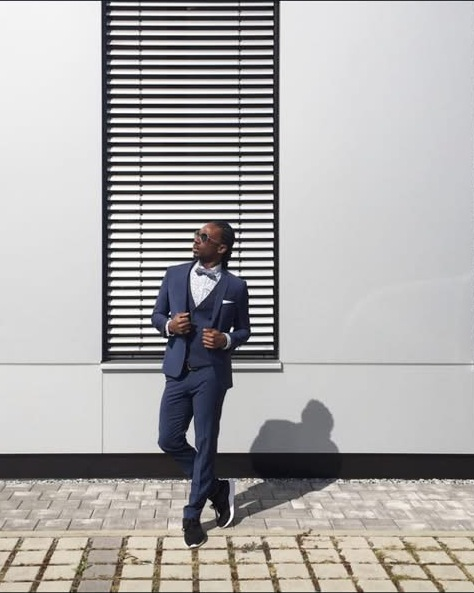
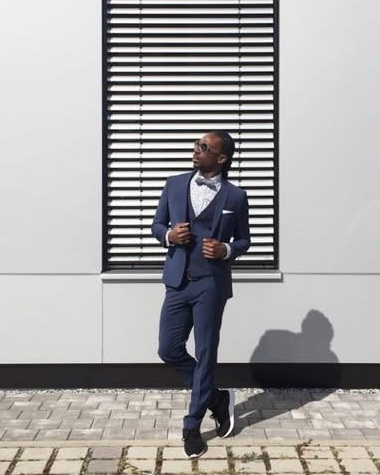
Centre the window, name the win, and carry the price explainers home
The Malta photo is recropped so the window frame is centred: it sat 47px
left of centre, measured off the blinds rather than guessed. The new crop
is 380x475, exactly the 4:5 the card renders, so object-fit crops nothing
further — and it keeps the whole window, the shoes and the shadow.

The card and the credentials strip now read "Fashion show sash WINNER! —
Mr Gay World 2016, Valletta, Malta".

The two prices that are jokes — "TBYD" and "You ask me…" — now carry
their explainer in the homepage Suite of Offers too, not just on
/styling/. Same affordance: a real button, the shared hover plate, and
aria-describedby, so the answer is there on keyboard focus and to a
screen reader. Colours differ because that modal is cream, not dark.

diff --git a/script.js b/script.js
@@ -180,7 +180,7 @@ if (homeStylingMount && stylingOffers && stylingOffers.items) {
   const list = document.createElement("div");
   list.className = "offer-list";
 
-  stylingOffers.items.forEach((item) => {
+  stylingOffers.items.forEach((item, index) => {
     const wrap = document.createElement("div");
     wrap.className = "offer-item";
 
@@ -188,12 +188,44 @@ if (homeStylingMount && stylingOffers && stylingOffers.items) {
     name.className = "offer-name";
     name.appendChild(document.createTextNode(item.name + " "));
 
-    // Not every card carries a price — a name-your-price one may not.
+    // Not every offer carries a price.
     if (item.price) {
       const price = document.createElement("span");
       price.className = "offer-price";
       price.textContent = item.price;
-      name.appendChild(price);
+
+      // A price that is a joke — "TBYD", "You ask me…" — carries its own
+      // explanation in the config. Same affordance as /styling/: a real
+      // button, the shared hover plate, and aria-describedby so the
+      // answer is available without a mouse.
+      if (item.priceInfo) {
+        const priceWrap = document.createElement("span");
+        priceWrap.className = "offer-price-wrap plate-trigger";
+
+        const infoId = "home-priceinfo-" + index;
+
+        const info = document.createElement("button");
+        info.type = "button";
+        info.className = "offer-info";
+        info.setAttribute("aria-describedby", infoId);
+        info.setAttribute("aria-label", "What \u201C" + item.price + "\u201D means");
+        const glyph = document.createElement("span");
+        glyph.setAttribute("aria-hidden", "true");
+        glyph.textContent = "i";
+        info.appendChild(glyph);
+
+        const plate = document.createElement("span");
+        plate.className = "hover-plate offer-info-plate";
+        plate.id = infoId;
+        plate.textContent = item.priceInfo;
+
+        priceWrap.appendChild(price);
+        priceWrap.appendChild(info);
+        priceWrap.appendChild(plate);
+        name.appendChild(priceWrap);
+      } else {
+        name.appendChild(price);
+      }
     }
 
     const body = document.createElement("p");

diff --git a/style.css b/style.css
@@ -707,6 +707,76 @@ body {
   white-space: nowrap;
 }
 
+/* Price explainer in the Suite of Offers, for the two prices that are a
+   joke with a straight answer behind them — "TBYD" and "You ask me…".
+   Reuses the shared .plate-trigger/.hover-plate pair, so it needs no new
+   show/hide logic. The dot is a real <button>, so the plate opens on
+   keyboard focus as well as hover, and aria-describedby means a screen
+   reader gets the explanation either way.
+
+   Mirrors .styling-info on /styling/. The colours differ because this
+   modal is plated cream with black text, not the dark palette. */
+.offer-price-wrap {
+  display: inline-flex;
+  align-items: center;
+  gap: 0.4rem;
+  white-space: nowrap;
+}
+
+.offer-info {
+  position: relative;
+  display: inline-flex;
+  align-items: center;
+  justify-content: center;
+  /* Visually small, but the tap target below brings it to 44px. */
+  width: 1.15rem;
+  height: 1.15rem;
+  padding: 0;
+  border: 1px solid rgba(0, 0, 0, 0.45);
+  border-radius: 50%;
+  background: none;
+  color: rgba(0, 0, 0, 0.75);
+  font: inherit;
+  font-size: 0.7rem;
+  font-style: italic;
+  font-weight: 600;
+  line-height: 1;
+  cursor: help;
+  transition: border-color 0.2s ease, color 0.2s ease;
+}
+
+/* Invisible 44px tap target, so this works on a phone without making the
+   dot itself clumsy. */
+.offer-info::after {
+  content: "";
+  position: absolute;
+  top: 50%;
+  left: 50%;
+  width: 44px;
+  height: 44px;
+  transform: translate(-50%, -50%);
+}
+
+.offer-info:hover,
+.offer-info:focus-visible {
+  border-color: #000;
+  color: #000;
+}
+
+/* The shared plate is left-anchored, but the price sits at the right edge
+   of .offer-name, so this one opens leftwards to stay inside the modal. */
+.offer-info-plate {
+  left: auto;
+  right: 0;
+  width: min(20rem, 72vw);
+  white-space: normal;
+  font-size: 0.85rem;
+  /* The site plate is tuned for an italic link context; reset for a price. */
+  font-style: normal;
+  font-weight: 400;
+  text-align: left;
+}
+
 .offer-note {
   margin-top: 1.5rem;
   font-size: 0.85rem;

diff --git a/styling/styling.config.js b/styling/styling.config.js
@@ -427,7 +427,7 @@ window.STYLING_CONFIG = {
              The sash itself is Kyle's own account; the rest is on the
              public record.
              TODO(Kyle): confirm the sash's exact name if it had one. */
-          title: "Fashion show sash — Mr Gay World 2016, Malta",
+          title: "Fashion show sash WINNER! — Mr Gay World 2016, Valletta, Malta",
           initials: "MLT",
           thinking:
             "A suit built to be walked in: the jacket holds its line " +
@@ -438,10 +438,10 @@ window.STYLING_CONFIG = {
             "Kyle Patrick in a navy three-piece suit and bow tie, " +
             "mid-stride against a white building with louvred shutters",
           detail:
-            "Mr Gay World 2016 in Malta: I went third runner-up for Sint " +
-            "Maarten and took the fashion show sash. The sash existed " +
-            "because one of the contest's own producers, Dieter Sapper of " +
-            "Nouba Events, had started it — and he also staged the " +
+            "Mr Gay World 2016 in Valletta, Malta: I went third runner-up " +
+            "for Sint Maarten and won the fashion show sash. The sash " +
+            "existed because one of the contest's own producers, Dieter " +
+            "Sapper of Nouba Events, had started it — and he also staged the " +
             "Modeschauen for Messe Dornbirn. So the prize was not a " +
             "trophy. It was walking his shows in his region. This suit is " +
             "that prize being collected, two years later in Austria: a " +
@@ -482,7 +482,7 @@ window.STYLING_CONFIG = {
     credentials: [
       "19 years in professional performance",
       "Mr Gay World — Sint Maarten titleholder",
-      "Fashion show sash — Mr Gay World 2016, Malta",
+      "Fashion show sash WINNER! — Mr Gay World 2016, Valletta, Malta",
       "Working remotely worldwide, based on Sint Maarten",
       "English · Nederlands · Deutsch"
     ],

diff --git a/styling/README.md b/styling/README.md
@@ -52,7 +52,8 @@ Four cards, in `offers.items`, read as a ladder: **Start here** →
 | Field | What it does |
 | --- | --- |
 | `tier` | Small label above the name |
-| `price` | Anything — "From €250", "Price TBC", "Ask me" |
+| `price` | Anything — "From €240", "TBYD", "You ask me…" |
+| `priceInfo` | Explains a price that is a joke. Adds an info dot beside it, here **and** in the homepage Suite of Offers |
 | `priceNote` | Small line under the price, e.g. payment plans |
 | `badge` | Pill on the card, e.g. "Coming soon" |
 | `meta` | Duration / format line |
